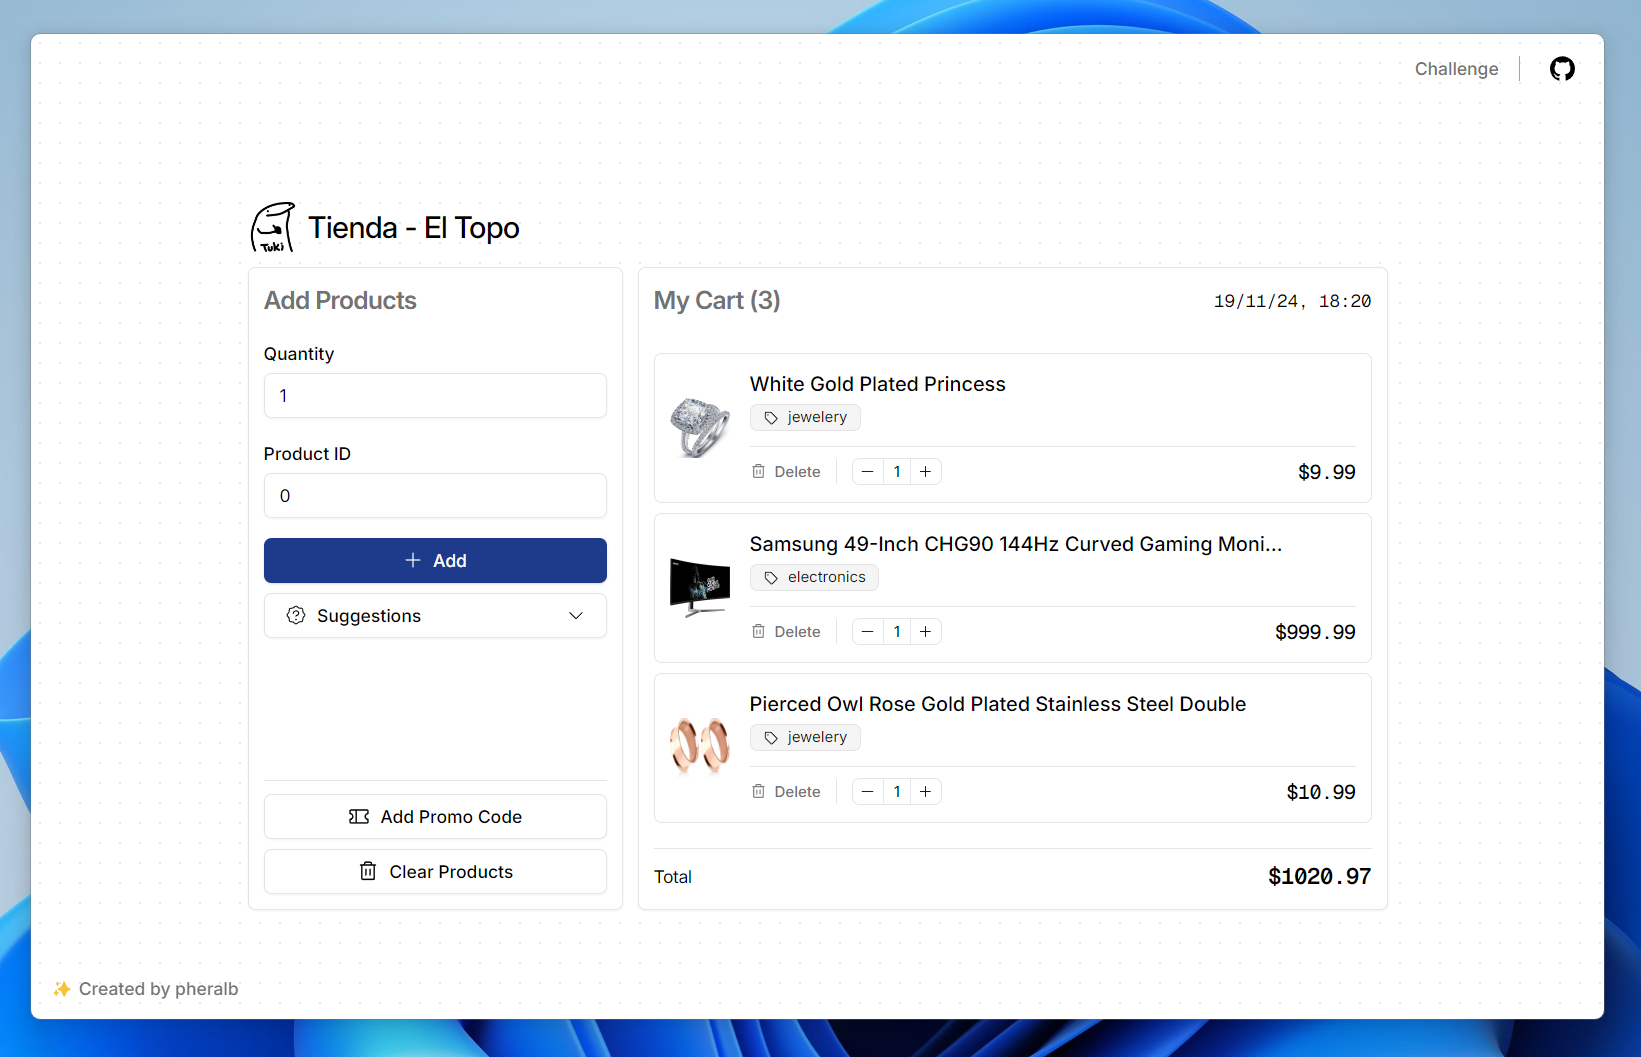
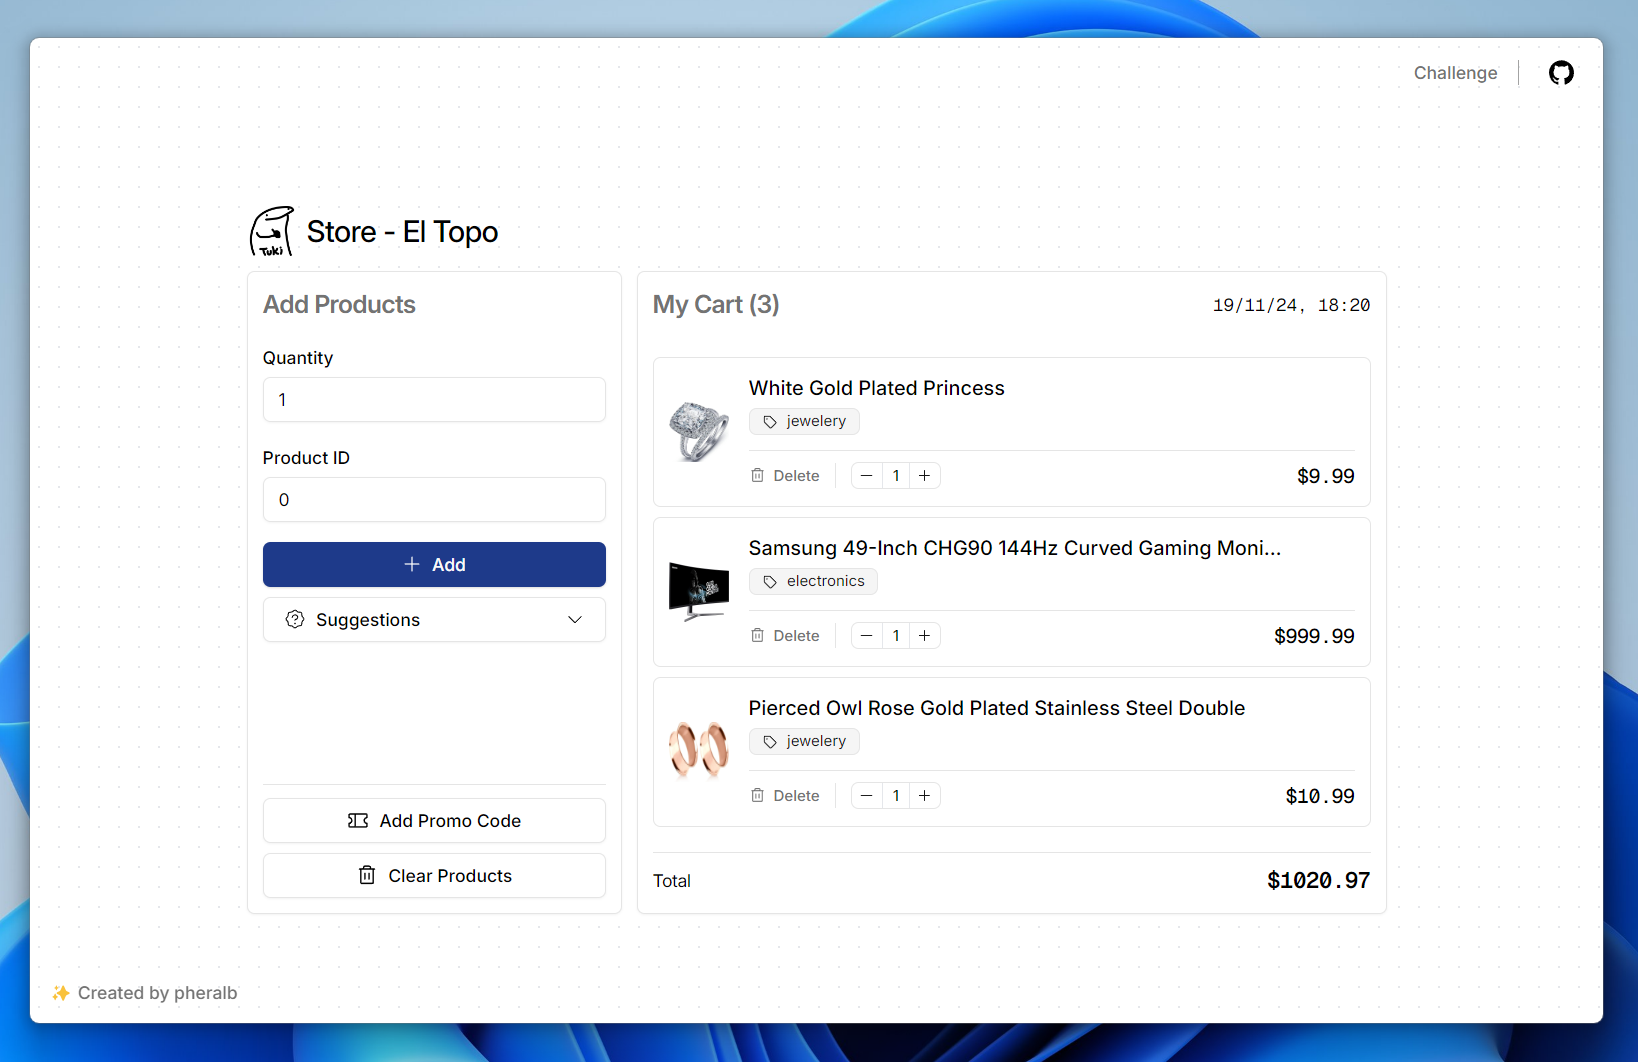
Update app title + readme image

diff --git a/src/index.tsx b/src/index.tsx
@@ -49,7 +49,7 @@ const Home = () => {
         <div className="flex items-center space-x-2">
           <img src="/assets/tuki.jpg" alt="Tuki" className="h-10 w-10" />
           <h2 className="text-2xl font-medium tracking-tight">
-            Tienda - El Topo
+            Store - El Topo
           </h2>
         </div>
         <div className="grid h-screen grid-cols-1 gap-1 md:h-[60vh] md:grid-cols-[300px,600px] md:gap-3">
